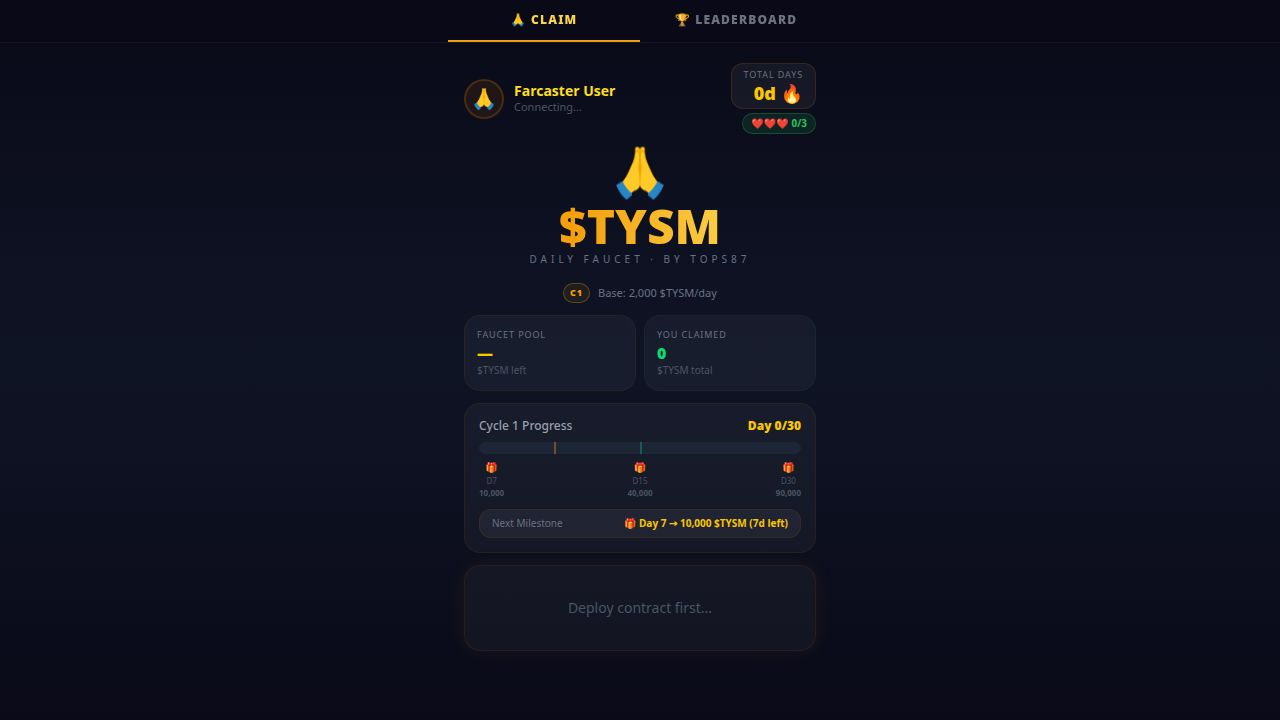
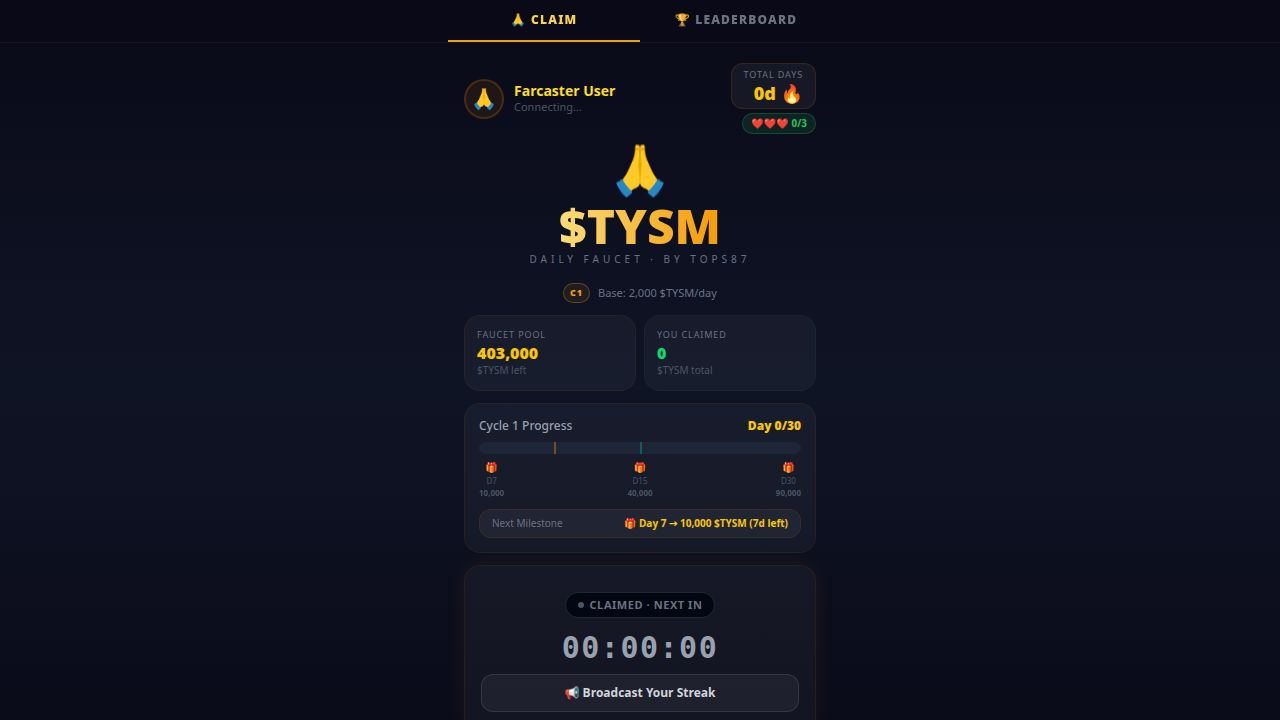
Update leaderboard to use Blockscout API for transaction data
Replace Basescan API endpoint with Blockscout API v2 for fetching transaction data to display on the leaderboard, adjusting data parsing logic to match the new API response structure.

Replit-Commit-Author: Agent
Replit-Commit-Session-Id: f8b3d479-b2f2-4848-8b80-bb94c65869e0
Replit-Commit-Checkpoint-Type: full_checkpoint
Replit-Commit-Event-Id: 5179e1fb-c6a3-4db0-aeb3-288fb7e960dc
Replit-Commit-Screenshot-Url: https://storage.googleapis.com/screenshot-production-us-central1/cf0f9a6b-2c2e-44a3-8a48-f2354fc3487b/f8b3d479-b2f2-4848-8b80-bb94c65869e0/vMk3xF2
Replit-Helium-Checkpoint-Created: true

diff --git a/artifacts/api-server/src/routes/leaderboard.ts b/artifacts/api-server/src/routes/leaderboard.ts
@@ -34,28 +34,23 @@ router.get("/leaderboard", async (_req, res) => {
     }
 
     const bsUrl =
-      `https://api.basescan.org/api` +
-      `?module=account&action=txlist` +
-      `&address=${FAUCET}` +
-      `&sort=desc&page=1&offset=200` +
-      `&apikey=YourApiKeyToken`;
+      `https://base.blockscout.com/api/v2/addresses/${FAUCET}/transactions` +
+      `?filter=to`;
 
-    const bsRes  = await fetch(bsUrl);
-    const bsJson = await bsRes.json();
+    const bsRes  = await fetch(bsUrl, {
+      headers: { "Accept": "application/json" },
+    });
+    const bsJson = await bsRes.json() as { items?: Array<{ from: { hash: string }; status: string }> };
 
     let addresses: `0x${string}`[] = [];
 
-    if (bsJson.status === "1" && Array.isArray(bsJson.result)) {
+    if (Array.isArray(bsJson.items)) {
       const seen = new Set<string>();
-      for (const tx of bsJson.result) {
-        const from = (tx.from as string).toLowerCase();
-        if (
-          tx.to?.toLowerCase() === FAUCET.toLowerCase() &&
-          tx.isError === "0" &&
-          !seen.has(from)
-        ) {
+      for (const tx of bsJson.items) {
+        const from = tx.from?.hash?.toLowerCase();
+        if (from && tx.status === "ok" && !seen.has(from)) {
           seen.add(from);
-          addresses.push(tx.from as `0x${string}`);
+          addresses.push(tx.from.hash as `0x${string}`);
           if (addresses.length >= 25) break;
         }
       }